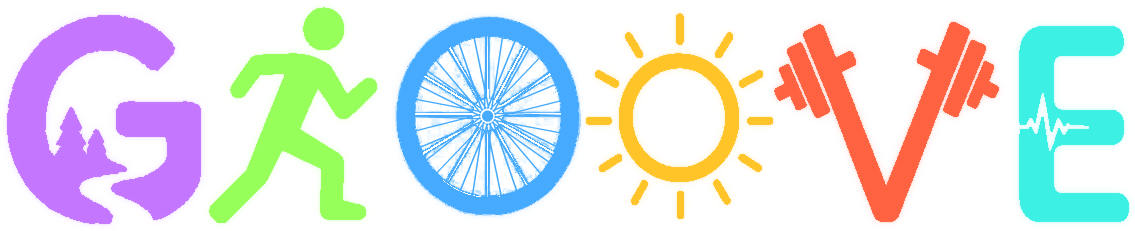
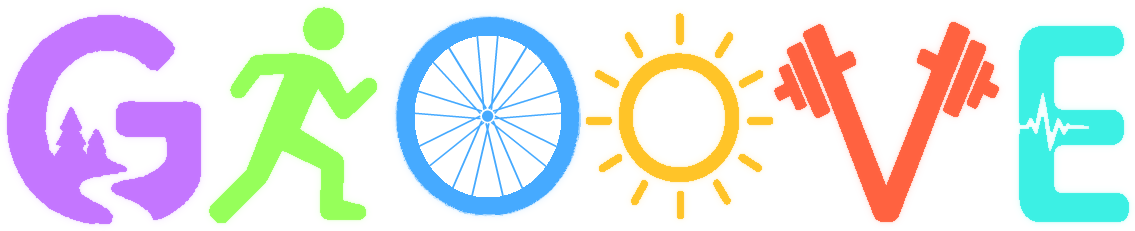
Bike wheel: 18 spokes (was far too busy), old spoke leftovers cleared
Claude-Session: https://claude.ai/code/session_01W6PERwBvGY6kxnwqFJiESo

Changed region(s): [[0.3392, 0.1515, 0.4934, 0.8485]]

diff --git a/scripts/redraw-wheel.py b/scripts/redraw-wheel.py
@@ -15,10 +15,10 @@ OUT_RX, OUT_RY = 89.5, 97.0
 RIM = 15.5                    # rim thickness
 IN_RX, IN_RY = OUT_RX - RIM, OUT_RY - RIM
 NAVY = (28, 62, 84)
-SPOKES = 32                   # a real wheel has 32-36
+SPOKES = 18                   # fewer, so it stays clean at logo size (a real wheel has 32-36)
 FLANGE = 7.5                  # spokes start on a small circle around the hub
 CROSS_DEG = 22                # how far around the rim each spoke lands: a gentle lean so spokes cross, like a laced wheel
-SPOKE_W = 1.5
+SPOKE_W = 1.7
 HUB_R = 5.5
 SS = 4
 
@@ -31,7 +31,7 @@ def redraw(path):
     # clear the old spokes and hub (navy-ish pixels inside the rim), leaving anything else alone
     r, g, b = a[..., 0].astype(int), a[..., 1].astype(int), a[..., 2].astype(int)
     navyish = (abs(r - NAVY[0]) + abs(g - NAVY[1]) + abs(b - NAVY[2]) < 110) & (a[..., 3] > 0)
-    a[inside & navyish] = 0
+    a[inside] = 0     # nothing but the old spokes and hub lives inside the rim, so clear it all (faint leftovers included)
     # draw the new spokes and hub, supersampled
     box = (int(CX - OUT_RX - 4), int(CY - OUT_RY - 4), int(CX + OUT_RX + 4), int(CY + OUT_RY + 4))
     bw, bh = box[2] - box[0], box[3] - box[1]

diff --git a/CLAUDE.md b/CLAUDE.md
@@ -70,7 +70,7 @@ A movement-coaching web app run by Greg (gpspicer2), an exercise-science profess
 - Auto-scroll: panels that open below the fold (Delete Account confirm, Account/Birdseye dropdowns, goal rows, Move history) use `lib/reveal.js` (`useRevealOnOpen`, `revealSoon`) to scroll themselves into view. Use it for any new expandable panel.
 - Sign-up screen uses teal (`SKY`) instead of plum so it never looks like sign-in (Greg asked; an exception to the "onboarding is plum" rule).
 - First visit on a phone opens on Sign up; once anyone has signed in there (`groove:returning` in localStorage) it opens on Sign in.
-- Dark mode: Account > Settings > Appearance (Auto follows the phone / Light / Dark; saved per device in localStorage `groove:theme`, applied before first paint from index.html; `src/appearance.js`). Theme tokens in `src/theme.js` are CSS variables defined in `index.css` (light and two dark blocks: system dark and forced dark; keep them identical). Never append hex digits to a token (use `color-mix`) and never hard-code hex colors. Import icons from `src/lib/icons.jsx` (not `lucide-react` directly) so `color`/`fill` props work with the variables. The logo uses neon dark versions (`wordmark-dark.png`, `wordmark-still-dark.png`, `wordmark-runner-dark.png`) generated by `scripts/make-dark-logo.py` (needs pillow, numpy, scipy); re-run it whenever the light logo art changes (the bike wheel's spokes are redrawn by `scripts/redraw-wheel.py`: 32 thin crossing spokes and a small hub, so it reads as a bicycle not a wagon; run `crisp-logo-g.py` then `redraw-wheel.py` on the original art, then this script. And `scripts/crisp-logo-g.py` first if the G artwork was replaced (run it on the ORIGINAL art): it rebuilds the G's soft edge into a clean one and shaves ~1.6 px off the stroke so it reads as crisp as the other letters; the dark glow was also toned down so big letters aren't foggy). `Wordmark` picks them with `useDarkMode`.
+- Dark mode: Account > Settings > Appearance (Auto follows the phone / Light / Dark; saved per device in localStorage `groove:theme`, applied before first paint from index.html; `src/appearance.js`). Theme tokens in `src/theme.js` are CSS variables defined in `index.css` (light and two dark blocks: system dark and forced dark; keep them identical). Never append hex digits to a token (use `color-mix`) and never hard-code hex colors. Import icons from `src/lib/icons.jsx` (not `lucide-react` directly) so `color`/`fill` props work with the variables. The logo uses neon dark versions (`wordmark-dark.png`, `wordmark-still-dark.png`, `wordmark-runner-dark.png`) generated by `scripts/make-dark-logo.py` (needs pillow, numpy, scipy); re-run it whenever the light logo art changes (the bike wheel's spokes are redrawn by `scripts/redraw-wheel.py`: 18 thin crossing spokes and a small hub (32 looked like 100 at logo size), so it reads as a bicycle not a wagon; run `crisp-logo-g.py` then `redraw-wheel.py` on the original art, then this script. And `scripts/crisp-logo-g.py` first if the G artwork was replaced (run it on the ORIGINAL art): it rebuilds the G's soft edge into a clean one and shaves ~1.6 px off the stroke so it reads as crisp as the other letters; the dark glow was also toned down so big letters aren't foggy). `Wordmark` picks them with `useDarkMode`.
 - Android: `public/manifest.webmanifest` has real 192/512 icons (`icon-android-*.png`, G centered with padding so round masks don't clip it); the viewport meta has `interactive-widget=resizes-content` so the keyboard doesn't cover bottom sheets; `#app-scroll` has `overscroll-behavior-y: contain` to stop pull-to-refresh mid-workout. Not handled: the Android back button doesn't close popups (it leaves the app).
 - Yoga counts toward both aerobic (its minutes) and flexibility (a session day), whichever list it was logged from. Barbell lifts never go below 45 lb (the bar); Log is disabled with a note until the weight is 45+.
 - Membership (Stripe, one flat monthly price): see `docs/PAYMENTS.md`. Serverless `api/billing/*` (checkout, portal, signature-verified webhook) set `profiles.membership_status`; without a membership Birdseye, Move and Journal are blurred behind a Join popup (`LockedTab`; the tour still runs first; Learn and the Movement Library stay open) only when `VITE_REQUIRE_MEMBERSHIP=true`; Greg can comp members from the coach Billing tab. Card data never touches Groove (Stripe-hosted pages). Not yet live-tested against real Stripe (needs Greg's keys).
